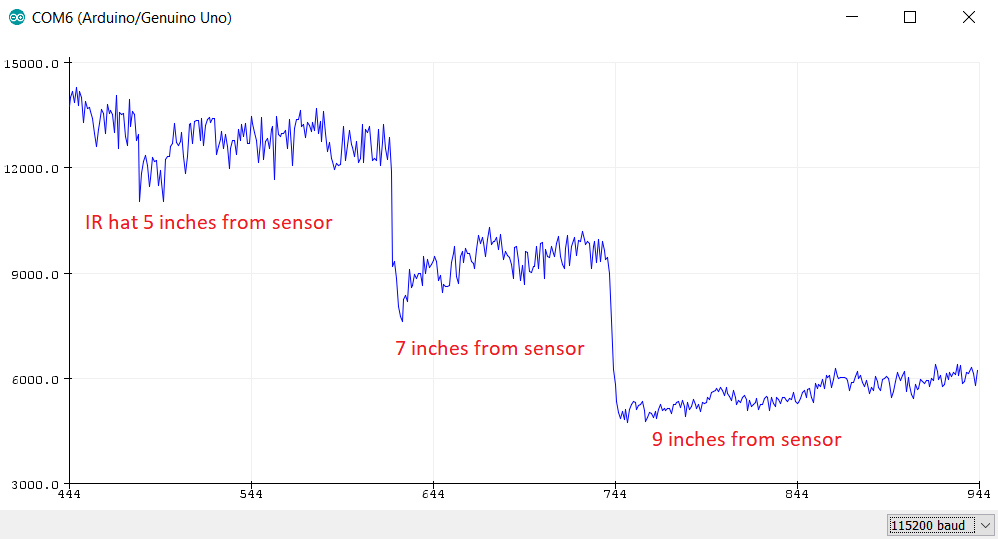
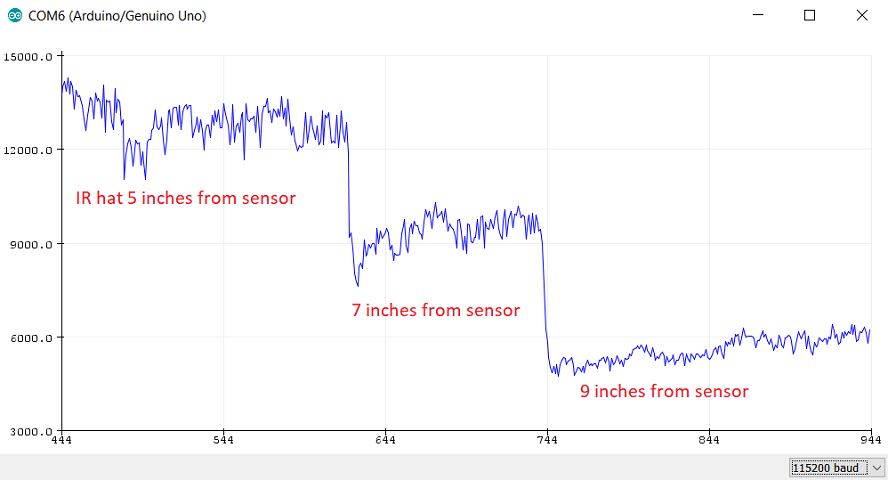
downscaled images and started milestone 3

diff --git a/milestone3.html b/milestone3.html
@@ -6,7 +6,7 @@
 -->
 <html>
 	<head>
-		<title>Lab 1</title>
+		<title>Milestone 3</title>
 		<meta charset="utf-8" />
 		<meta name="viewport" content="width=device-width, initial-scale=1, user-scalable=no" />
 		<meta name="description" content="" />
@@ -45,15 +45,9 @@
 					<div class="content">
 						<h3>Goals</h3>
 							<ul>
-								<li>Learn the basics of Arduino by controlling LEDs and motors.</li>
-								<li>Assemble a basic body for the robot.</li>
-								<li>Program the robot to move in a square shaped path.</li>
+								<li>Explore maze using DFS, BFS, Dijkstra, or A* (show that your robot can do different maze configurations, we expect at least one of them to be a minimum size of 4x5).</li>
+								<li>Update the GUI while exploring.</li>
 							</ul>
-						<hr />
-
-						<h3>Sub-teams</h3>
-						<p><b>Subteam 1: </b>Hadi and Alberto</p>
-						<p><b>Subteam 2: </b>Ian and Yanrui</p>
 						<hr />
 
 						<h3>Prelab</h3>
